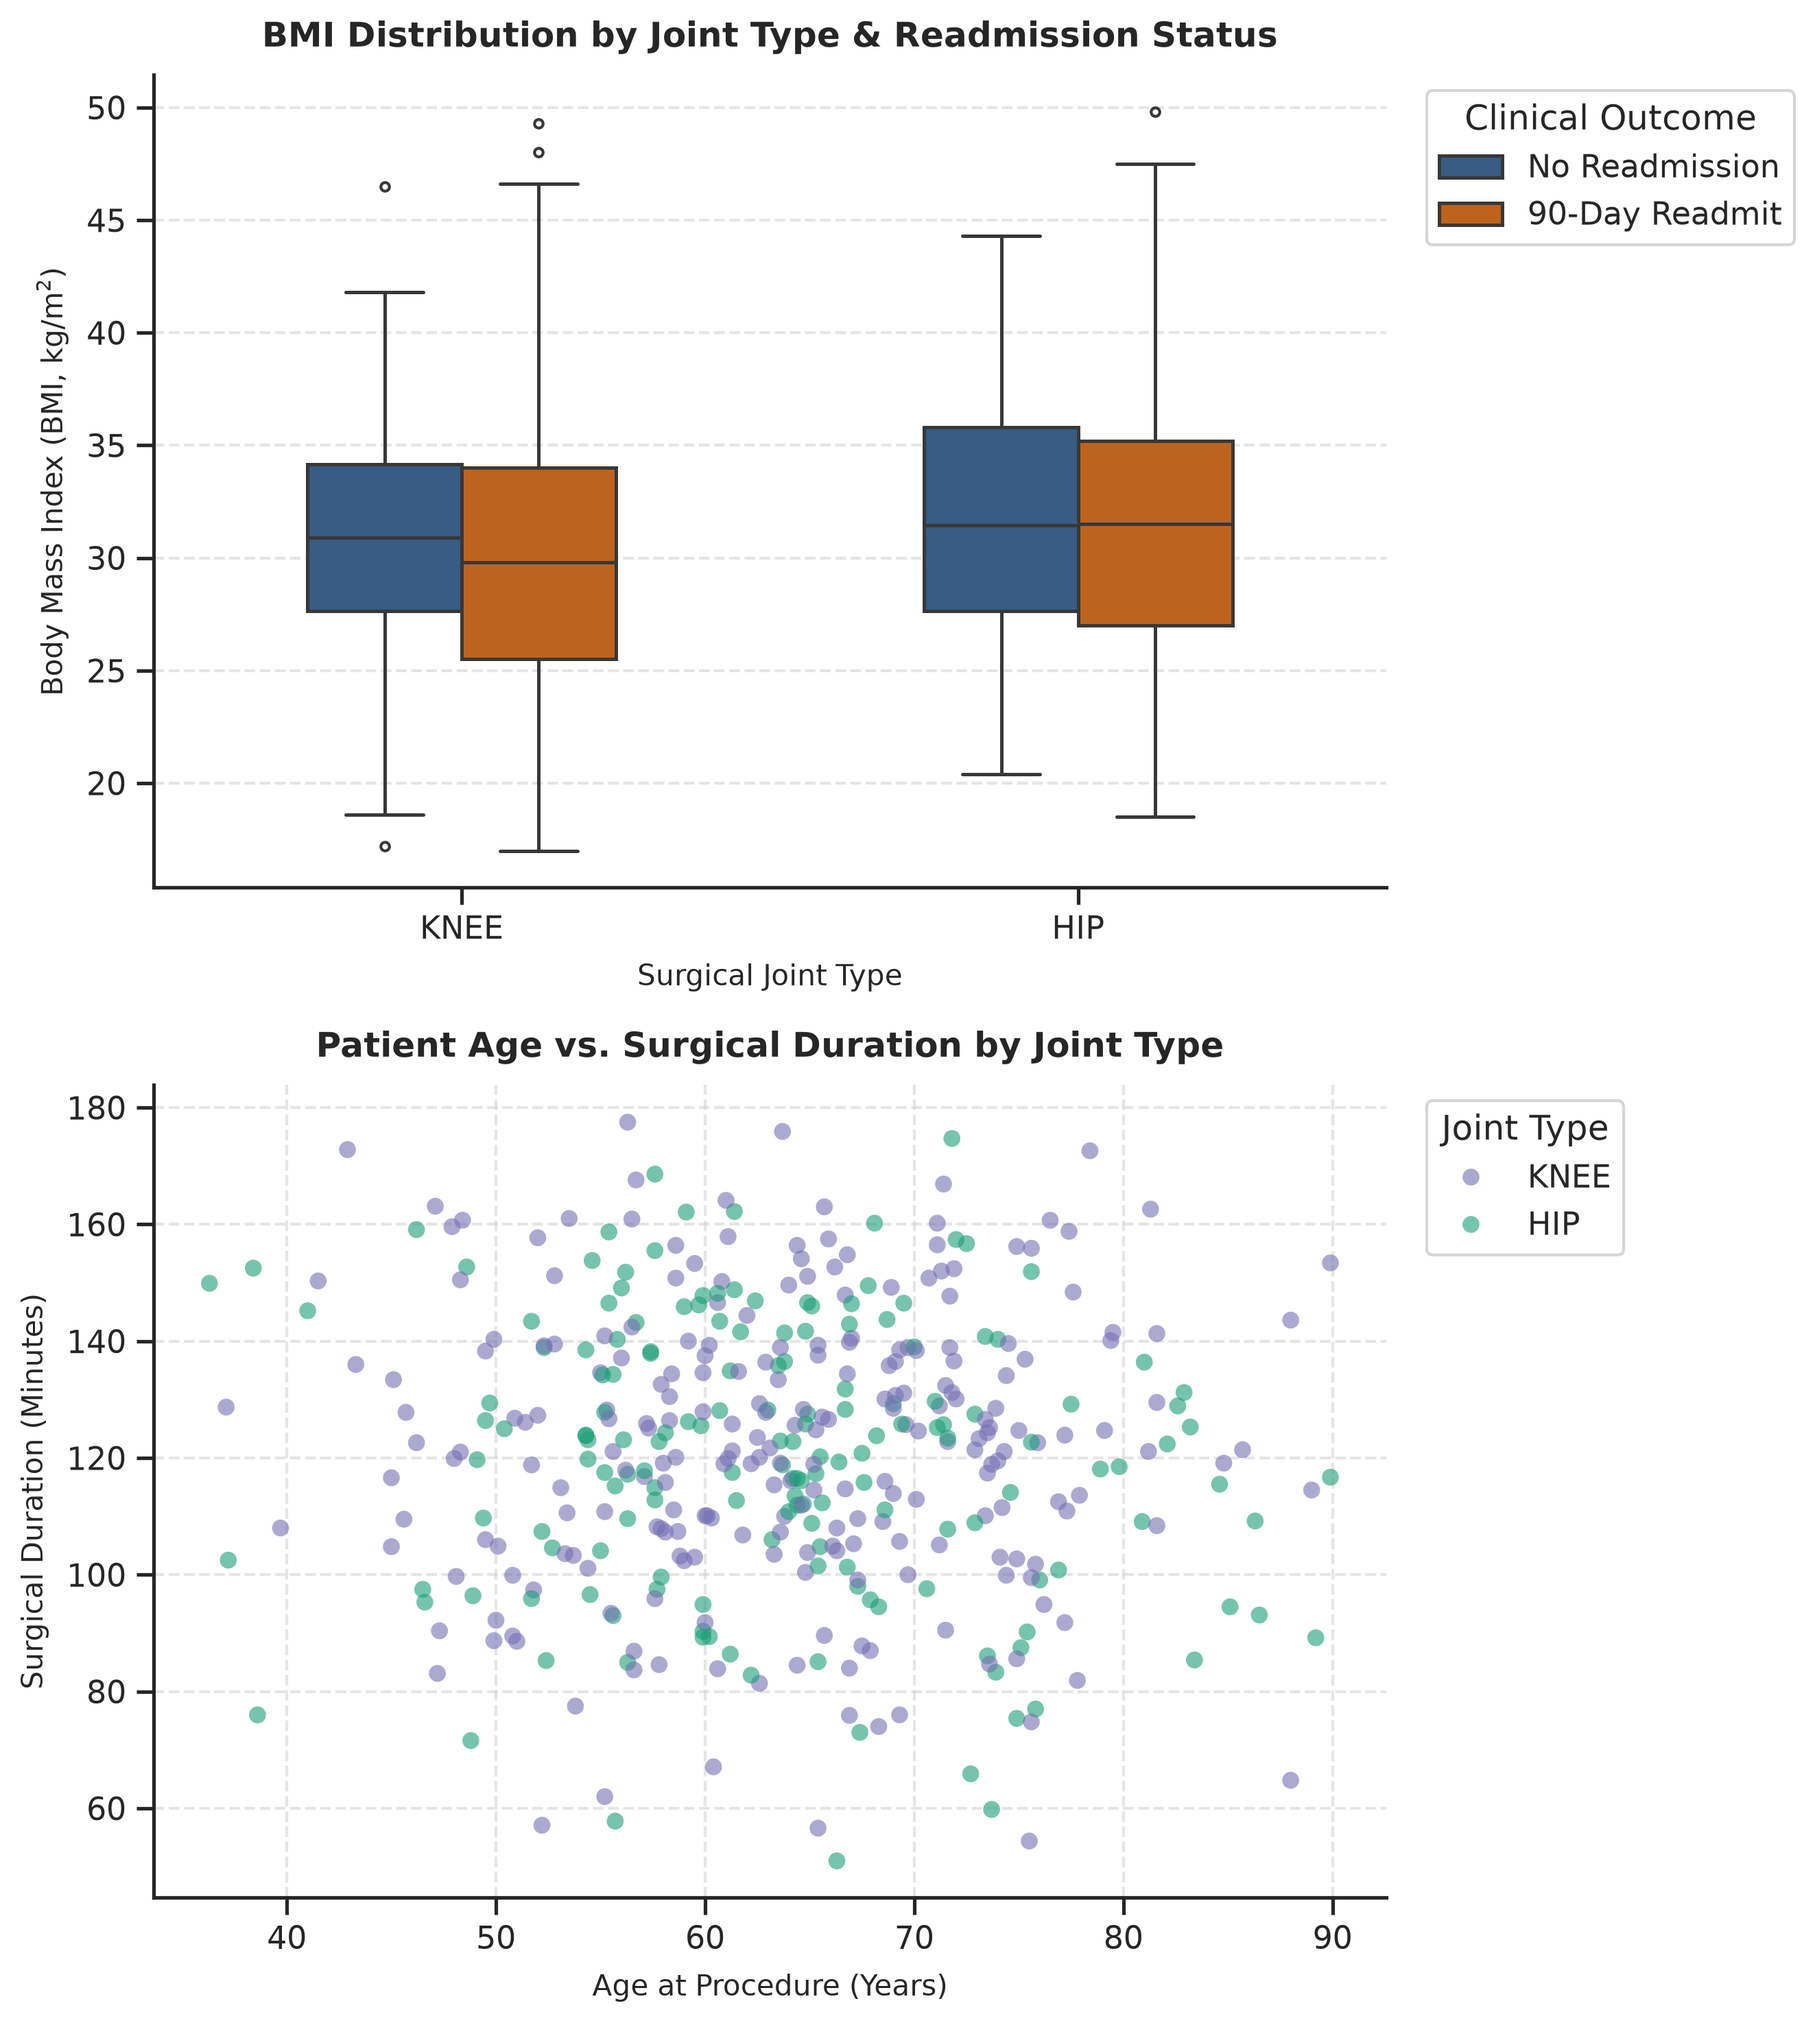
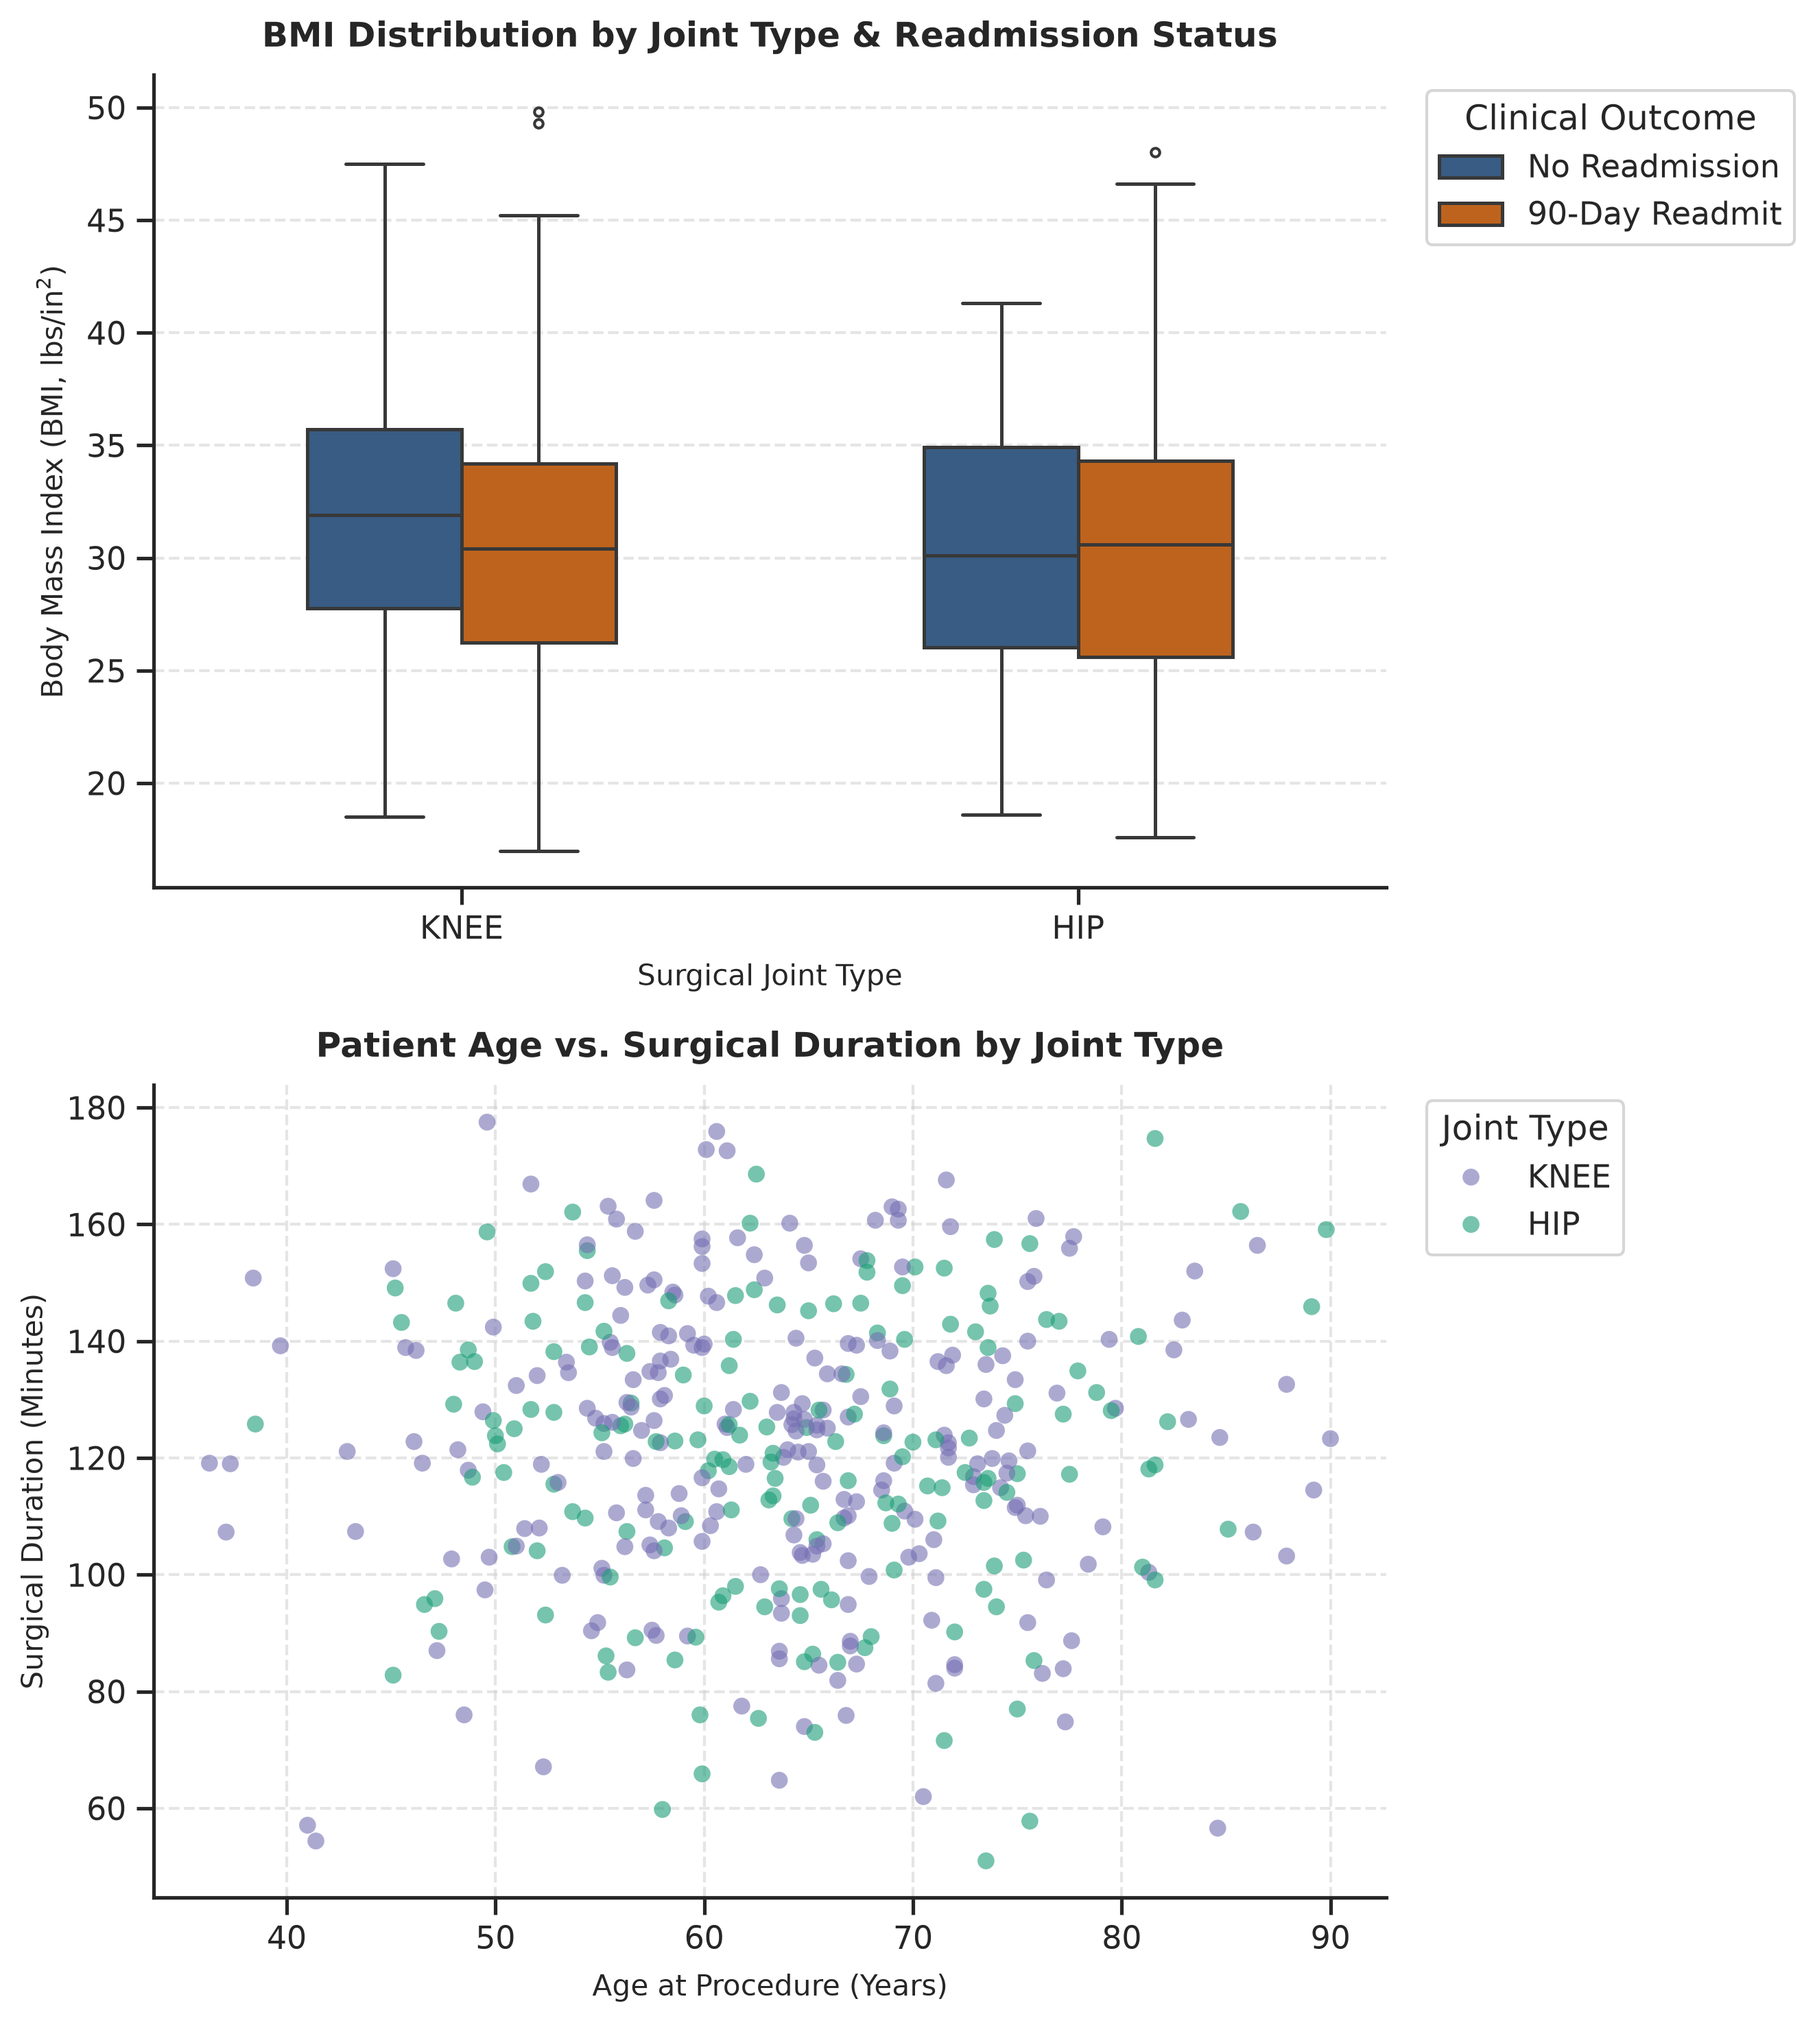
fix: fixed incorrect bmi label on box plot

diff --git a/src/reporter.py b/src/reporter.py
@@ -54,7 +54,7 @@ def generate_figures(df: pl.DataFrame, output_image_path: str) -> None:
     )
     axes[0].set_xlabel("Surgical Joint Type", fontsize=10, labelpad=6)
     axes[0].set_ylabel(
-        "Body Mass Index (BMI, $\\mathrm{kg/m^2}$)", fontsize=10, labelpad=6
+        "Body Mass Index (BMI, $\\mathrm{lbs/in^2}$)", fontsize=10, labelpad=6
     )
     axes[0].grid(True, linestyle="--", alpha=0.5, axis="y")
 

diff --git a/reports/clinical_data_summary.md b/reports/clinical_data_summary.md
@@ -5,8 +5,8 @@
 | Variable | Hip (N = 171) | Knee (N = 251) | Total Cohort (N = 422) |
 | :--- | :---: | :---: | :---: |
 | **Cohort Distribution, N (%)** | 171 (40.5%) | 251 (59.5%) | 422 (100.0%) |
-| **Age at Procedure (Years), Mean ± SD** | 63.6 (±10.4) | 63.9 (±10.1) | -- |
-| **Body Mass Index (BMI), Median [IQR]** | 31.5 [27.1–35.5] | 30.0 [25.7–34.1] | -- |
+| **Age at Procedure (Years), Mean ± SD** | 64.1 (±10.1) | 63.6 (±10.3) | -- |
+| **Body Mass Index (BMI), Median [IQR]** | 30.4 [25.7–34.3] | 30.5 [26.3–34.4] | -- |
 | **Surgical Duration (Minutes), Mean ± SD** | 119.8 (±24.0) | 122.1 (±24.4) | -- |
 | **90-Day Readmission Rate, N (%)** | 137 (80.1%) | 195 (77.7%) | -- |
 
